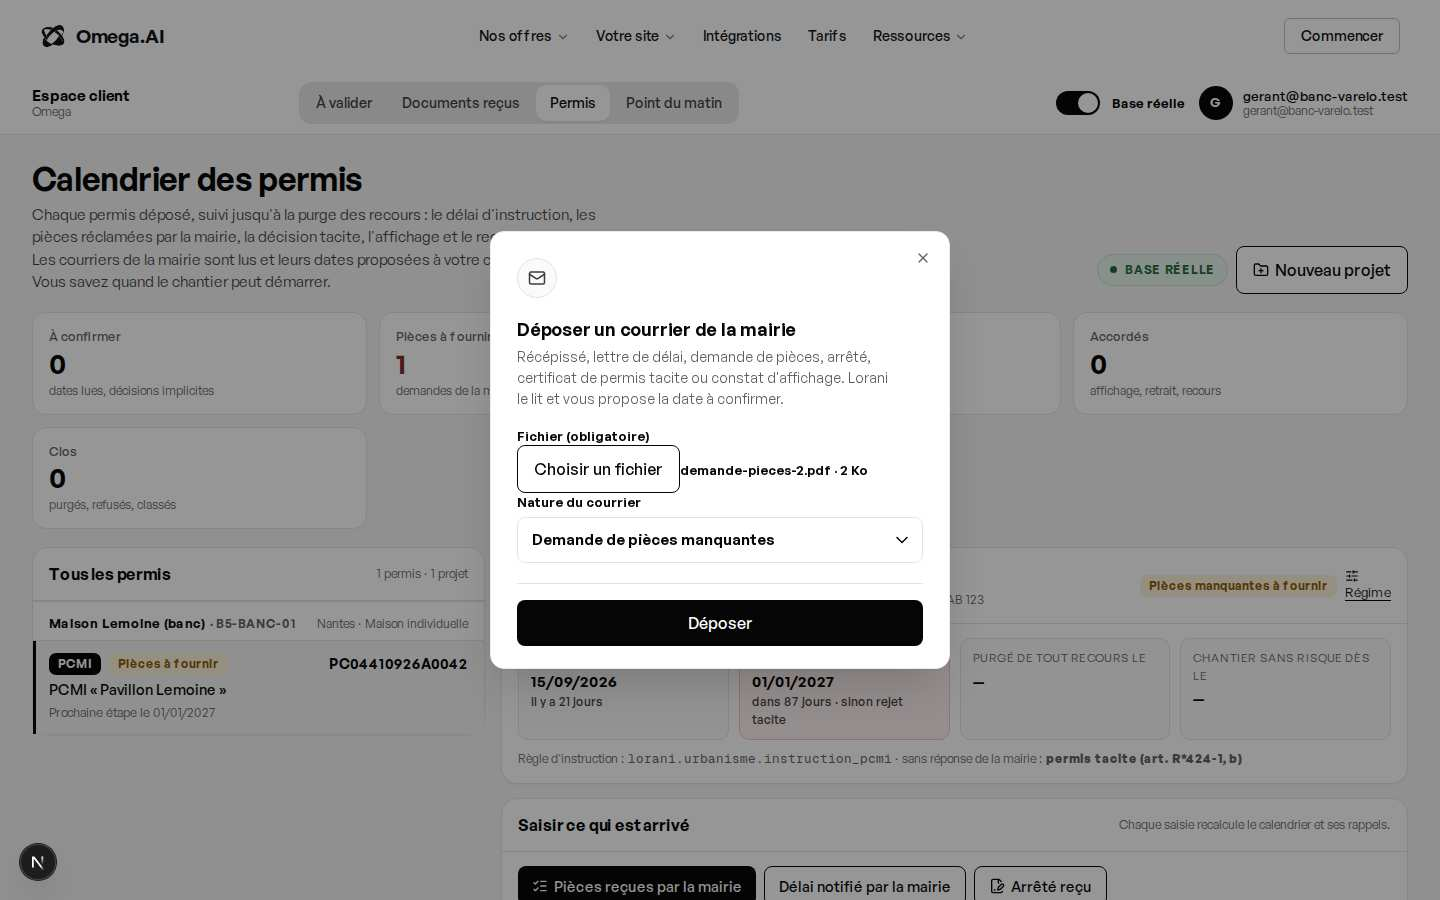
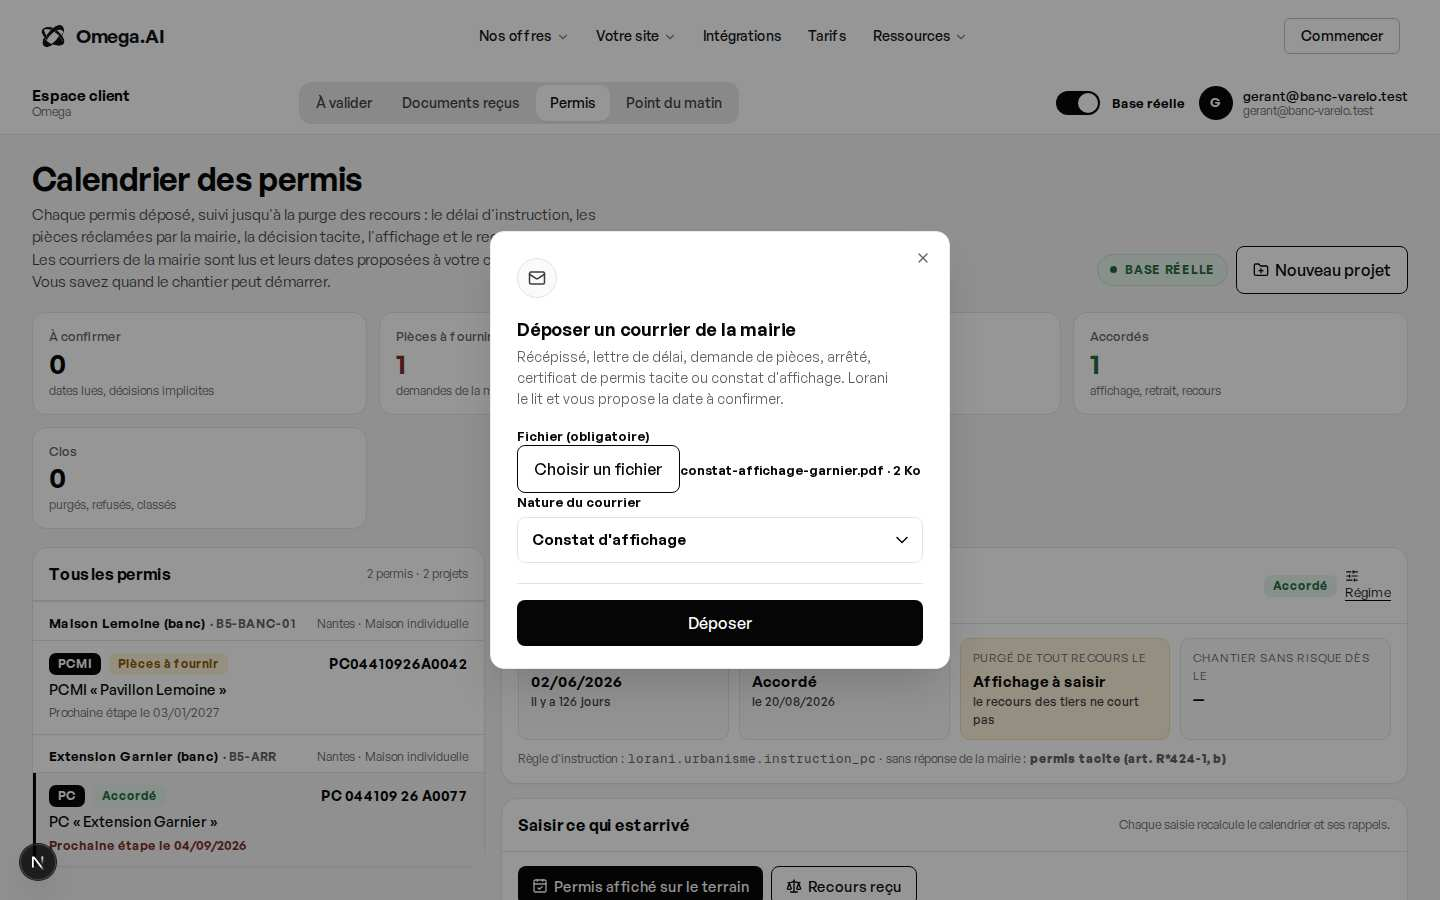
LORANI B5 : arrêté et constat d'affichage réels lus, proposés, confirmés (Extension Garnier, purge 20/11/2026) ; modèles de courriers et permis paramétrable
Claude-Session: https://claude.ai/code/session_018iNiXjY8eWmMjaGrXSGgma

diff --git a/omega/NOTES-B5.md b/omega/NOTES-B5.md
@@ -8,7 +8,7 @@ Dernière mise à jour : 05/10/2026, 23 h.
 | Jauge | Valeur | Ce qui la fait monter |
 |---|---|---|
 | **Mécanique** (le socle fait ce que la page promet, prouvé par des tests joués sur la recette) | 95 % (114/114 le 06/10 à 2 h 05 Z, b5_05 et b5_06 posées ; avant :) 90 % (**111/111** à 9ba2900, b5_01 à b5_04 posées sur la recette) | b5_01 à b5_03 posés sur la recette ; test pgTAP joué par le coordinateur : **110/111** (20 étapes : projet, équipe, RLS, lecture simulée par les portes du lecteur, confirmation, échéances dans `delais`, rappel J-10 par `controler_delais` → alerte → envoi `a_valider` au chef de projet, décision tacite, affichage, recours, purge, mesures, journal) ; les deux rouges corrigés (b5_04 + lecture du point) : **111/111 le 06/10 à 0 h 01 Z** ; manque : le lecteur réel ne connaît pas les types Lorani (spécification écrite, à A1) |
-| **Livrable client** (un gérant d'agence ouvre /espace/lorani et suit un vrai permis) | 92 % (06/10, 2 h 10 Z : récépissé et demande de pièces réels lus par le lecteur, proposés, confirmés par l'écran ; avant :) 85 % (**en ligne** sur https://omegaai.fr/espace/lorani depuis le 06/10, 0 h 52) | écran recetté aux cinq largeurs (41 contrôles), **relu en base réelle** avec `gerant@banc-varelo.test` : projet et PCMI créés par l'écran, calendrier calculé par le socle, **un vrai récépissé déposé et lu par le lecteur** (mais rendu « courrier non reconnu », voir § 3) ; fusion sur `main` en cours chez le coordinateur ; reste la vérification sur omegaai.fr et le rejeu du dépôt réel quand le lecteur connaît les types |
+| **Livrable client** (un gérant d'agence ouvre /espace/lorani et suit un vrai permis) | 94 % (06/10, 2 h 26 Z : arrêté et constat d'affichage réels aussi ; 2 h 10 Z : récépissé et demande de pièces réels lus par le lecteur, proposés, confirmés par l'écran ; avant :) 85 % (**en ligne** sur https://omegaai.fr/espace/lorani depuis le 06/10, 0 h 52) | écran recetté aux cinq largeurs (41 contrôles), **relu en base réelle** avec `gerant@banc-varelo.test` : projet et PCMI créés par l'écran, calendrier calculé par le socle, **un vrai récépissé déposé et lu par le lecteur** (mais rendu « courrier non reconnu », voir § 3) ; fusion sur `main` en cours chez le coordinateur ; reste la vérification sur omegaai.fr et le rejeu du dépôt réel quand le lecteur connaît les types |
 
 **Ce qui manque** : le lecteur (A1) doit apprendre les six types de courriers Lorani (`omega/modules/lorani/CHAMPS-LECTURE-LORANI.md`) ;
 la fusion dans `main` ; la vérification sur omegaai.fr. **Ce que Teo doit fournir** : rien pour l'instant ; pour que
@@ -297,4 +297,21 @@ suit l'écran ne fournirait que PCMI2 et PCMI8 et se ferait opposer un rejet tac
 
 Je ne code pas b5_07 avant ta réponse (et idéalement celle d'un juriste sur le point « seconde demande dans le
 mois »). Le permis « Pavillon Lemoine » du banc garde l'état écrasé, utile pour rejouer b5_07.
+
+## 7. Essai réel arrêté + constat d'affichage (06/10, 2 h 17–2 h 26 Z, lecteur v17)
+
+Nouveau projet du banc « Extension Garnier (banc) » (7ef5d6aa…) et PC « Extension Garnier » (0a8ac86c…, PC 044109 26
+A0077, déposé le 2026-06-02), créés sous RLS avec la session du gérant (mêmes écritures que l'écran), pour ne pas
+toucher « Pavillon Lemoine ». Courriers : `fabriquer-courrier.mjs arrete|constat_affichage` ; script :
+`PERMIS='Extension Garnier' NUMERO='PC04410926A0077' node omega/recette-b5/courrier-reel.mjs … lorani_arrete`.
+- `arrete-garnier.pdf` : `lue`, `lorani_arrete` 0,97 ; proposition à 70 s « Décision : Accordé — 20/08/2026 »
+  (citations « le permis de construire est ACCORDÉ », « Fait à Nantes, le 20/08/2026 ») → `{decision: favorable,
+  date_decision: 2026-08-20}`, vérifiée, confirmée.
+- `constat-affichage-garnier.pdf` : `lue`, `lorani_constat_affichage` 0,97 ; proposition à 282 s « Premier jour
+  d'affichage : 28/08/2026 » (citation « Le 28/08/2026 à 10 h 15 ») → `{date_affichage: 2026-08-28}`, confirmée.
+- Permis : `accorde`, décision favorable du 2026-08-20, affichage 2026-08-28, **purge 2026-11-20** ; échéances :
+  complétude 07-02 tenu, instruction 09-02 tenu, affichage 09-04 tenu, **recours 10-29** (deux mois francs depuis le
+  premier jour d'affichage) ouvert, **retrait 11-20** (trois mois après l'arrêté) ouvert, purge 11-20 ouvert. Juste.
+- Bilan : quatre des six types de courriers prouvés en réel (récépissé, demande de pièces, arrêté, constat
+  d'affichage) ; restent la lettre de délai et le certificat tacite (couverts par le test, pas encore en réel).
 
